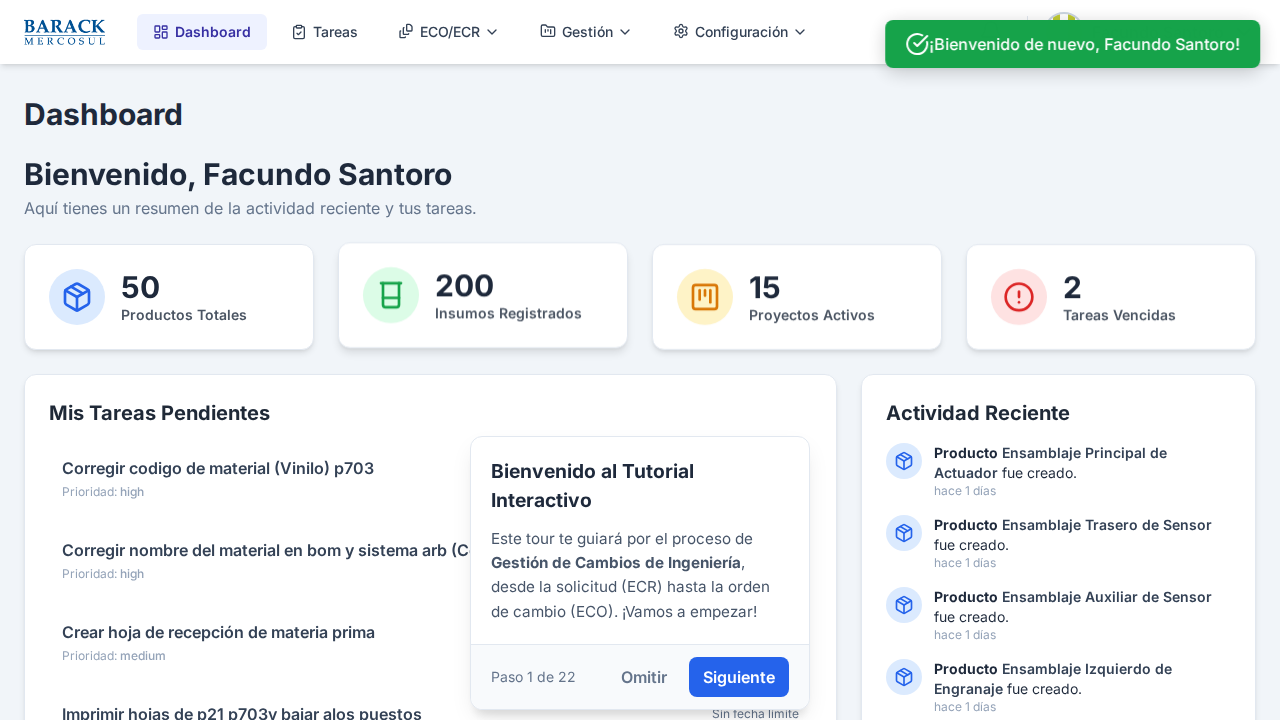
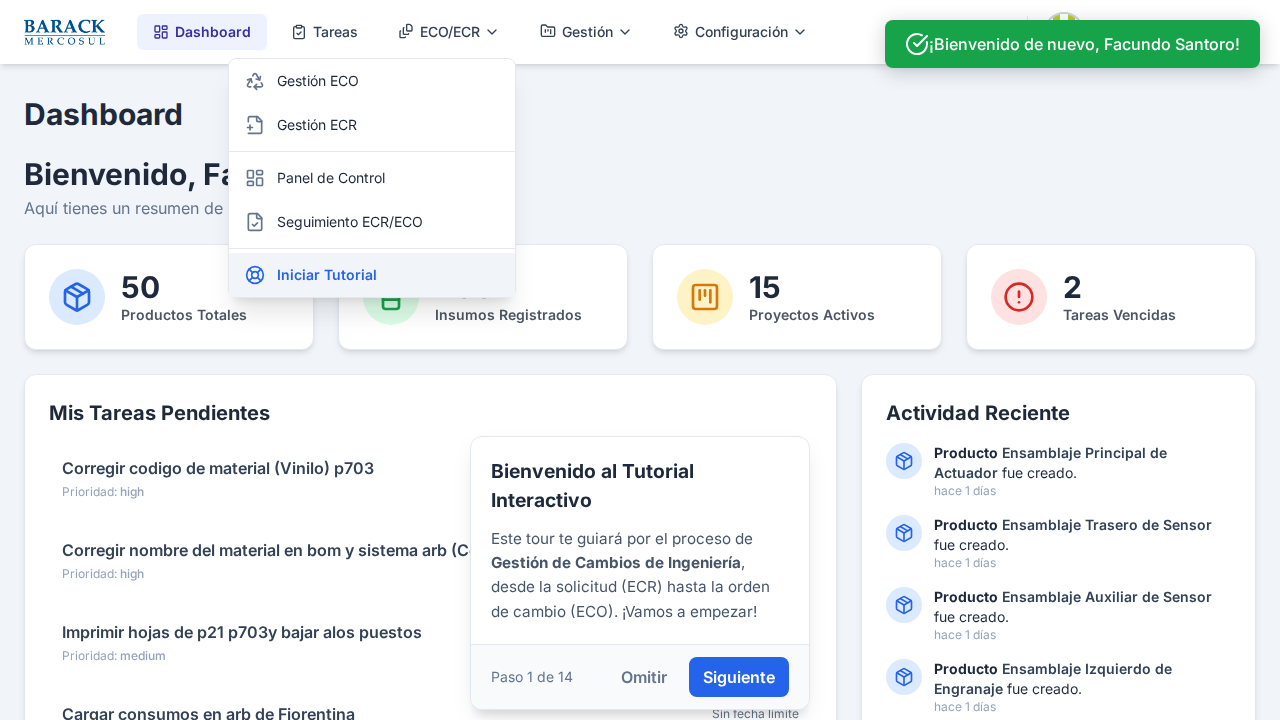
Revert "Feat: Implement dynamic guidance arrow for tutorial"

diff --git a/public/tutorial.js b/public/tutorial.js
@@ -26,7 +26,7 @@ const tutorial = (app) => {
             title: 'Módulo ECR/ECO',
             content: 'Toda la gestión de cambios de ingeniería empieza aquí. Este menú contiene las herramientas para solicitar, seguir y ejecutar cambios.',
             position: 'bottom',
-            preAction: async () => {
+            postAction: async () => {
                 const menu = document.querySelector('[data-tutorial-id="eco-ecr-menu"]');
                 if (menu) {
                     menu.classList.add('open');
@@ -261,13 +261,23 @@ const tutorial = (app) => {
         `;
         dom.overlay.appendChild(dom.tooltip);
 
-        // Create a single arrow for off-screen guidance
-        dom.arrow = document.createElement('div');
-        dom.arrow.id = 'tutorial-arrow';
-        const iconEl = document.createElement('i');
-        iconEl.setAttribute('data-lucide', 'arrow-up'); // We will rotate this
-        dom.arrow.appendChild(iconEl);
-        dom.overlay.appendChild(dom.arrow);
+        // Create arrow container for off-screen guidance
+        const arrowContainer = document.createElement('div');
+        arrowContainer.id = 'tutorial-arrow-container';
+
+        const directions = ['up', 'down', 'left', 'right'];
+        directions.forEach(dir => {
+            const arrowEl = document.createElement('div');
+            arrowEl.id = `tutorial-arrow-${dir}`;
+            arrowEl.classList.add('tutorial-arrow');
+
+            const iconEl = document.createElement('i');
+            iconEl.setAttribute('data-lucide', `arrow-${dir}`);
+            arrowEl.appendChild(iconEl);
+
+            arrowContainer.appendChild(arrowEl);
+        });
+        dom.overlay.appendChild(arrowContainer);
 
         // Tell lucide to create the newly added icons
         if (window.lucide && typeof window.lucide.createIcons === 'function') {
@@ -370,60 +380,7 @@ const tutorial = (app) => {
     };
 
     let resizeObserver = null;
-    let currentTargetElement = null;
-    let scrollListener = null;
-
-    const throttle = (func, limit) => {
-        let inThrottle;
-        return function() {
-            const args = arguments;
-            const context = this;
-            if (!inThrottle) {
-                func.apply(context, args);
-                inThrottle = true;
-                setTimeout(() => inThrottle = false, limit);
-            }
-        }
-    };
-
-    const updateArrow = () => {
-        if (!currentTargetElement || !dom.arrow) return;
-
-        const targetRect = currentTargetElement.getBoundingClientRect();
-        const viewport = {
-            width: window.innerWidth,
-            height: window.innerHeight
-        };
-
-        const isVisible = (
-            targetRect.bottom > 0 &&
-            targetRect.top < viewport.height &&
-            targetRect.right > 0 &&
-            targetRect.left < viewport.width
-        );
-
-        if (isVisible) {
-            dom.arrow.style.opacity = '0';
-            dom.arrow.style.pointerEvents = 'none';
-            return;
-        }
-
-        dom.arrow.style.opacity = '1';
-        dom.arrow.style.pointerEvents = 'auto';
-
-        const PADDING = 20; // Distance from the edge of the screen
-
-        // Clamp arrow position to be within the viewport
-        const arrowX = Math.max(PADDING, Math.min(targetRect.left + targetRect.width / 2, viewport.width - PADDING));
-        const arrowY = Math.max(PADDING, Math.min(targetRect.top + targetRect.height / 2, viewport.height - PADDING));
-
-        const dX = (targetRect.left + targetRect.width / 2) - arrowX;
-        const dY = (targetRect.top + targetRect.height / 2) - arrowY;
-        const angle = Math.atan2(dY, dX) * 180 / Math.PI + 90;
-
-        dom.arrow.style.transform = `translate(${arrowX - 22}px, ${arrowY - 22}px) rotate(${angle}deg)`;
-    };
-
+    let intersectionObserver = null;
 
     const updateHighlight = (targetElement, step) => {
         if (!targetElement || !dom.highlight) return;
@@ -441,16 +398,49 @@ const tutorial = (app) => {
         positionTooltip(targetRect, step.position);
     };
 
+    /**
+     * Shows or hides the correct directional arrow if the target element is off-screen.
+     * @param {Element} targetElement - The DOM element for the current step.
+     * @param {boolean} isOffScreen - Whether the element is off-screen or not.
+     */
+    const updateArrowVisibility = (targetElement, isOffScreen) => {
+        const arrows = {
+            up: document.getElementById('tutorial-arrow-up'),
+            down: document.getElementById('tutorial-arrow-down'),
+            left: document.getElementById('tutorial-arrow-left'),
+            right: document.getElementById('tutorial-arrow-right')
+        };
+
+        // Hide all arrows first
+        for (const dir in arrows) {
+            arrows[dir]?.classList.remove('visible');
+        }
+
+        if (!isOffScreen) return;
+
+        const targetRect = targetElement.getBoundingClientRect();
+
+        // Determine which direction the element is in and show the corresponding arrow
+        if (targetRect.bottom < 0) {
+            arrows.up?.classList.add('visible');
+        } else if (targetRect.top > window.innerHeight) {
+            arrows.down?.classList.add('visible');
+        } else if (targetRect.right < 0) {
+            arrows.left?.classList.add('visible');
+        } else if (targetRect.left > window.innerWidth) {
+            arrows.right?.classList.add('visible');
+        }
+    };
+
     const showStep = async (index) => {
         // Clear any existing observers or listeners to prevent leaks
         if (resizeObserver) {
             resizeObserver.disconnect();
             resizeObserver = null;
         }
-        if (scrollListener) {
-            window.removeEventListener('scroll', scrollListener);
-            window.removeEventListener('resize', scrollListener);
-            scrollListener = null;
+        if (intersectionObserver) {
+            intersectionObserver.disconnect();
+            intersectionObserver = null;
         }
 
         if (index < 0 || index >= steps.length) {
@@ -460,6 +450,9 @@ const tutorial = (app) => {
 
         currentStepIndex = index;
         const step = steps[index];
+
+        // Hide all arrows initially when a new step is shown
+        document.querySelectorAll('.tutorial-arrow').forEach(a => a.classList.remove('visible'));
 
         if (dom.tooltip) {
             dom.tooltip.classList.remove('is-waiting');
@@ -475,7 +468,6 @@ const tutorial = (app) => {
         }
 
         const targetElement = await waitForVisibleElement(step.element, 7000);
-        currentTargetElement = targetElement;
 
         if (!targetElement) {
             if (dom.tooltip) {
@@ -511,22 +503,21 @@ const tutorial = (app) => {
 
             updateHighlight(targetElement, step);
 
-            // Initial arrow update
-            updateArrow();
-
-            // Set up new listeners
-            scrollListener = throttle(updateArrow, 50); // Throttle to 20fps max
-            window.addEventListener('scroll', scrollListener, { passive: true });
-            window.addEventListener('resize', scrollListener, { passive: true });
-
-
             // Observer for resizing the element or page
             resizeObserver = new ResizeObserver(() => {
                 updateHighlight(targetElement, step);
-                updateArrow(); // Also update arrow on resize
             });
             resizeObserver.observe(targetElement);
             resizeObserver.observe(document.body);
+
+            // Observer for visibility, to show guide arrows
+            intersectionObserver = new IntersectionObserver((entries) => {
+                entries.forEach(entry => {
+                    updateArrowVisibility(targetElement, !entry.isIntersecting);
+                });
+            }, { root: null, threshold: 0 }); // A threshold of 0 triggers as soon as the element is partially out of view.
+
+            intersectionObserver.observe(targetElement);
         }, 0);
     };
 
@@ -663,10 +654,9 @@ const tutorial = (app) => {
             resizeObserver.disconnect();
             resizeObserver = null;
         }
-        if (scrollListener) {
-            window.removeEventListener('scroll', scrollListener);
-            window.removeEventListener('resize', scrollListener);
-            scrollListener = null;
+        if (intersectionObserver) {
+            intersectionObserver.disconnect();
+            intersectionObserver = null;
         }
         if (dom.overlay) {
             dom.overlay.remove();

diff --git a/public/tutorial.css b/public/tutorial.css
@@ -15,34 +15,6 @@
     pointer-events: none;
 }
 
-/* --- Off-screen Guidance Arrow --- */
-#tutorial-arrow {
-    position: fixed;
-    /* We use transform to position, so top/left are 0 */
-    top: 0;
-    left: 0;
-    z-index: 10001;
-    color: white;
-    background-color: rgba(29, 78, 216, 0.9); /* blue-700 with more opacity */
-    border-radius: 50%;
-    width: 44px;
-    height: 44px;
-    display: flex;
-    align-items: center;
-    justify-content: center;
-    box-shadow: 0 4px 14px rgba(0, 0, 0, 0.25);
-    /* Note: transform is NOT transitioned here for instant movement. Opacity is. */
-    transition: opacity 0.3s ease;
-    opacity: 0;
-    pointer-events: none;
-    will-change: transform, opacity;
-}
-
-#tutorial-arrow i {
-    width: 28px;
-    height: 28px;
-}
-
 /* Element to highlight the focused part of the UI */
 #tutorial-highlight {
     position: absolute;
@@ -201,3 +173,80 @@
   }
 }
 
+/* --- Off-screen Guidance Arrows --- */
+
+/* This container is just a placeholder and doesn't need a visual presence */
+#tutorial-arrow-container {
+    pointer-events: none; /* Allows clicks to pass through */
+}
+
+/* Base style for all arrows */
+.tutorial-arrow {
+    display: none; /* Hidden by default */
+    position: fixed;
+    z-index: 10001; /* Same level as the tooltip */
+    color: white;
+    background-color: rgba(29, 78, 216, 0.8); /* blue-700 with transparency */
+    border-radius: 50%;
+    padding: 8px;
+    width: 44px;
+    height: 44px;
+    box-shadow: 0 4px 14px rgba(0, 0, 0, 0.25);
+    transition: opacity 0.3s ease;
+}
+
+.tutorial-arrow.visible {
+    display: flex;
+    align-items: center;
+    justify-content: center;
+}
+
+/* Positioning for each arrow */
+#tutorial-arrow-up {
+    top: 20px;
+    left: 50%;
+    transform: translateX(-50%);
+    animation: tutorial-arrow-bob-vertical-up 1.5s ease-in-out infinite;
+}
+
+#tutorial-arrow-down {
+    bottom: 20px;
+    left: 50%;
+    transform: translateX(-50%);
+    animation: tutorial-arrow-bob-vertical-down 1.5s ease-in-out infinite;
+}
+
+#tutorial-arrow-left {
+    left: 20px;
+    top: 50%;
+    transform: translateY(-50%);
+    animation: tutorial-arrow-bob-horizontal-left 1.5s ease-in-out infinite;
+}
+
+#tutorial-arrow-right {
+    right: 20px;
+    top: 50%;
+    transform: translateY(-50%);
+    animation: tutorial-arrow-bob-horizontal-right 1.5s ease-in-out infinite;
+}
+
+/* Bobbing animations */
+@keyframes tutorial-arrow-bob-vertical-up {
+    0%, 100% { transform: translate(-50%, 0); }
+    50% { transform: translate(-50%, -10px); }
+}
+
+@keyframes tutorial-arrow-bob-vertical-down {
+    0%, 100% { transform: translate(-50%, 0); }
+    50% { transform: translate(-50%, 10px); }
+}
+
+@keyframes tutorial-arrow-bob-horizontal-left {
+    0%, 100% { transform: translate(0, -50%); }
+    50% { transform: translate(-10px, -50%); }
+}
+
+@keyframes tutorial-arrow-bob-horizontal-right {
+    0%, 100% { transform: translate(0, -50%); }
+    50% { transform: translate(10px, -50%); }
+}

diff --git a/verify_tutorial.js b/verify_tutorial.js
@@ -38,7 +38,7 @@ import assert from 'assert';
         console.log('Verifying Step 1: Checking for progress indicator...');
         await page.waitForSelector('#tutorial-tooltip-progress', { timeout: 2000 });
         const progressText = await page.textContent('#tutorial-tooltip-progress');
-        assert.strictEqual(progressText, 'Paso 1 de 22', `Expected 'Paso 1 de 22' but got '${progressText}'`);
+        assert.strictEqual(progressText, 'Paso 1 de 14', `Expected 'Paso 1 de 14' but got '${progressText}'`);
         console.log('Progress indicator found and correct.');
 
         // Take a screenshot of the first step to show the new UI
@@ -58,9 +58,9 @@ import assert from 'assert';
         console.log('Navigating to step 4...');
         await page.click('#tutorial-next-btn');
         // Wait for the tutorial to advance to the correct step
-        await page.waitForFunction(() => document.getElementById('tutorial-tooltip-progress')?.textContent === 'Paso 4 de 22', { timeout: 5000 });
+        await page.waitForFunction(() => document.getElementById('tutorial-tooltip-progress')?.textContent === 'Paso 4 de 14', { timeout: 5000 });
         const finalProgressText = await page.textContent('#tutorial-tooltip-progress');
-        assert.strictEqual(finalProgressText, 'Paso 4 de 22', `Expected 'Paso 4 de 22' but got '${finalProgressText}'`);
+        assert.strictEqual(finalProgressText, 'Paso 4 de 14', `Expected 'Paso 4 de 14' but got '${finalProgressText}'`);
         console.log('Successfully navigated a few steps.');
 
         console.log('Frontend verification successful!');
